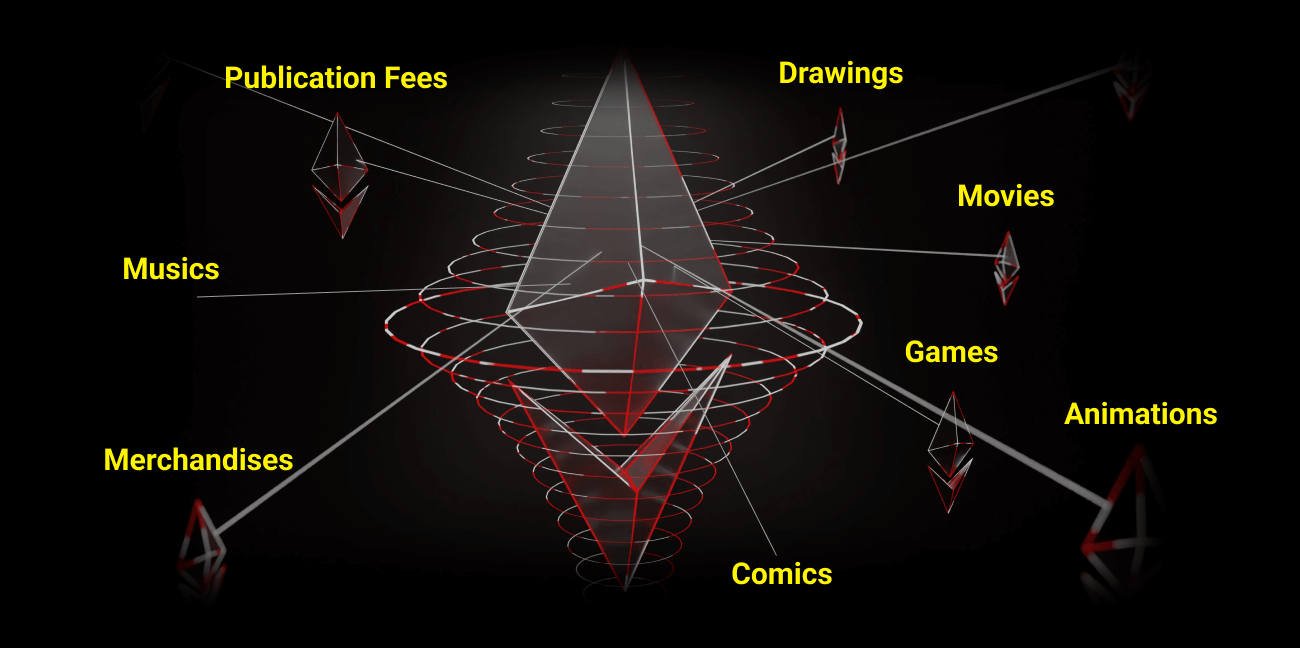
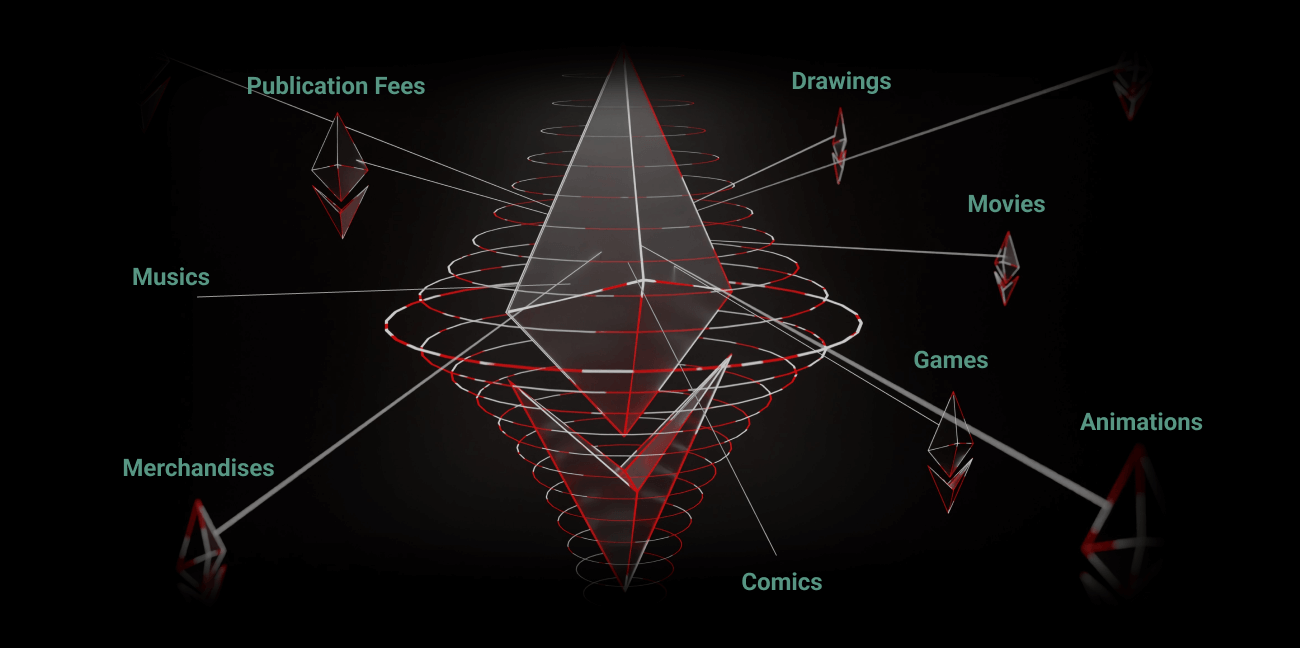
update em color

diff --git a/src/EconomicModel.jsx b/src/EconomicModel.jsx
@@ -6,7 +6,11 @@ function EconomicModel() {
         <section className="ecoModel">
             <InfoSet 
                 sectionName={"We Make it Easier to Monetize Your Works"} 
-                title={"Earn the License Fee of the Whole Story_" }
+                title={
+                <div>
+                    Earn the <span>License Fee</span> of the Whole Story_
+                </div> 
+                }
                 subtitle={""}
                 content={"When being one of the story owners, people also own the rights to the story. This means that when a story generates any revenue, including licensing, publishing, etc., people can get a share of it. The DAO(Decentralized autonomous organization) will handle the licensing and publishing collaborations on behalf of all story owners, so the only thing writers need to do is focusing more on writing great stories."}
                 imgLink={require("./img/derivative-products.png")}
@@ -16,7 +20,11 @@ function EconomicModel() {
             <div style={{height:"20px"}}/>
             <InfoSet 
                 sectionName={""} 
-                title={"Earn When Your Stories Continued by Other Writers_" }
+                title={
+                <div>
+                    Earn When Your Stories <span>Continued by Other Writers</span>_
+                </div> 
+                }
                 subtitle={""}
                 content={"Our unique profit sharing model will allow copyright owners to earn directly from the following writers. And this profit sharing will extended to all the lower classes, which means the profit will grow expotentially. If you are not a writer, you can also purchase others copyrights from the open market to receive the revenue."}
                 imgLink={require("./img/write-more-earn-more.png")}
@@ -26,7 +34,11 @@ function EconomicModel() {
             <div style={{height:"20px"}}/>
             <InfoSet 
                 sectionName={""} 
-                title={"Earn from Trading the Copyrights_" }
+                title={
+                <div>
+                    Earn from <span>Trading the Copyrights</span>_
+                </div> 
+                }
                 subtitle={""}
                 content={"Since the copyrights have become the provable digital assets, owners can trade them easier than ever."}
                 imgLink={require("./img/earn-from-trading.png")}
@@ -36,7 +48,11 @@ function EconomicModel() {
             <div style={{height:"20px"}}/>
             <InfoSet 
                 sectionName={""} 
-                title={"Earn from the Readers_" }
+                title={
+                <div>
+                    Earn from <span>the Readers</span>_
+                </div>
+                    }
                 subtitle={""}
                 content={"The platfrom will charge our readers for the subscription reading fees. These fees will be stored into a vault belongs to the story tree, and will be transfered to all the co-authors of the story."}
                 imgLink={require("./img/earn-from-the-readers.png")}

diff --git a/src/About.jsx b/src/About.jsx
@@ -7,13 +7,12 @@ function About() {
             <InfoSet 
                 sectionName={"What is STARNEST?"} 
                 title={"A Gateway for the Writers to Join the Web3 Ecosystem."}
-                subtitle={""}
+                subtitle={'We believe "Web3 will change the whole experiences of writing and reading."'}
                 content={""}
                 imgLink={require("./img/about.png")}
                 imgAlt={"about starnest"}
-                picWidth={"80%"}
+                picWidth={"70%"}
             />
-            <h4 className="textBox">Be believe "Web3 will change the whole experiences of writing and reading".</h4>
             <p className="textBox">
             Tens of thousand of writers are creating stories everyday. However, few of them are being seen by the public, let alone published as physical books, or used to make animations, movies or drawings. Moreover, there are more amateur writers even don't have enough time to finish their masterpieces.
             <br/>STARNEST is a service based on blockchain technology, helping the authors to co-create stories and earn the fair profit from their works. Smart contract empowers digital copyrights to become tradable and can split the profit generated by the stories.

diff --git a/src/Social-Bundle.jsx b/src/Social-Bundle.jsx
@@ -9,10 +9,10 @@ import React from "react";
 function SocialBundle(){
     return(
         <div className="socialSet">
-                <a href="https://twitter.com/Cosmocitizenz" target="_blank" rel="noopener noreferrer"><img className="socialIcon" src={require("./img/logos_twitter.png") } alt="twitter" /></a>
+                <a href="https://twitter.com/starnest_" target="_blank" rel="noopener noreferrer"><img className="socialIcon" src={require("./img/logos_twitter.png") } alt="twitter" /></a>
                 <img className="socialIcon" src={require("./img/fa-brands_discord.png")} alt="discord" />
                 <img className="socialIcon" src={require("./img/bi_medium.png")} alt="medium" />
-                <a href="https://www.instagram.com/cosmocitizenz/" target="_blank" rel="noopener noreferrer"><img className="socialIcon" src={require("./img/cib_instagram.png")} alt="instagram" /></a>
+                <img className="socialIcon" src={require("./img/cib_instagram.png")} alt="instagram" />
         </div>
     );
 }

diff --git a/src/Roadmap.jsx b/src/Roadmap.jsx
@@ -7,7 +7,11 @@ function Roadmap(){
         <section className="roadmap" style={{ backgroundImage: `url(${RoadmapBg})`, backgroundPosition:`bottom`, backgroundSize:`100%`, backgroundRepeat:`no-repeat`}}>
             <InfoSet 
                 sectionName={"Roadmap"} 
-                title={"We are Building A Door for the Writers to Join the Era of Web3_" }
+                title={
+                <div>
+                    We Are Building A Door for the Writers to <span>Join the Era of Web3</span>_
+                </div> 
+                }
             />
             <div className="roadmapCard">
                 <h6>

diff --git a/src/CosmoCitizenz.jsx b/src/CosmoCitizenz.jsx
@@ -9,7 +9,8 @@ function Adoption(){
             sectionName={"CosmoCitizenz - The Origin Citizens of STARNEST"} 
             title={"Being a CosmoCitizenz Enjoys the Following Benefits_" }
             subtitle={
-            <ul style={{color:"#579683", width:"60%", fontSize:"100%"}}>
+            <ul style={{color:"#579683", width:"50%", fontSize:"100%"}}>
+                <div style={{height:"30px"}} />
                 <li>Getting airdropped of free Manuscripts.</li>
                 <li>Stacking to share 20% of the net profit of the vault.</li>
                 <li>Joining an exclusive writers community.</li>

diff --git a/public/styles.css b/public/styles.css
@@ -64,7 +64,7 @@ body {
         color: white;
         margin: 1rem auto;
         font-family: Roboto;
-        font-size: 1rem;
+        font-size: 1.2rem;
         font-weight: normal;
         font-stretch: normal;
         font-style: normal;
@@ -80,7 +80,7 @@ body {
         line-height: 1.52;
         text-align: left;
         margin: auto;
-        width: 40%;
+        width: 100%;
     }
     
     hr {

diff --git a/src/InfoSet.jsx b/src/InfoSet.jsx
@@ -13,7 +13,7 @@ function InfoSet(props) {
             <h4>
                 {props.subtitle}
             </h4>
-            <p className="textBox" style={{color:"#a7a7a7"}}>
+            <p className="textBox" style={{color:"rgb(211, 211, 211)"}}>
                 {props.content}
             </p>
             <img src={props.imgLink} alt={props.imgAlt} style={{width:props.picWidth}} />

diff --git a/src/Social.jsx b/src/Social.jsx
@@ -6,7 +6,7 @@ function Social(){
     return(
         <section className="social" style={{ backgroundImage: `url(${SocialBg})`, backgroundSize:`100%`, backgroundRepeat:`no-repeat`}}>
             <h5>
-                Stay Tuned on Our Telegram and Discord Group!
+                Stay Tuned by Following Our Twitter!
             </h5>
             <SocialBundle />
         </section>
